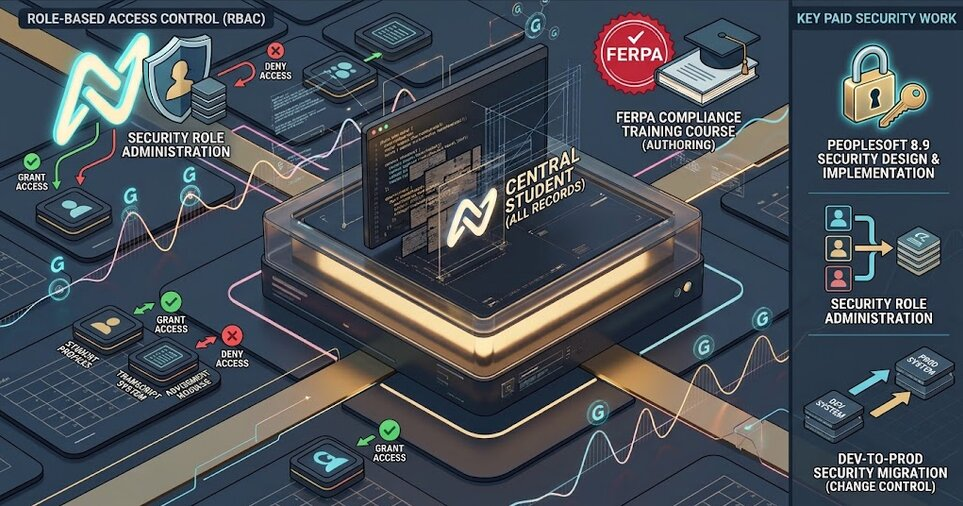
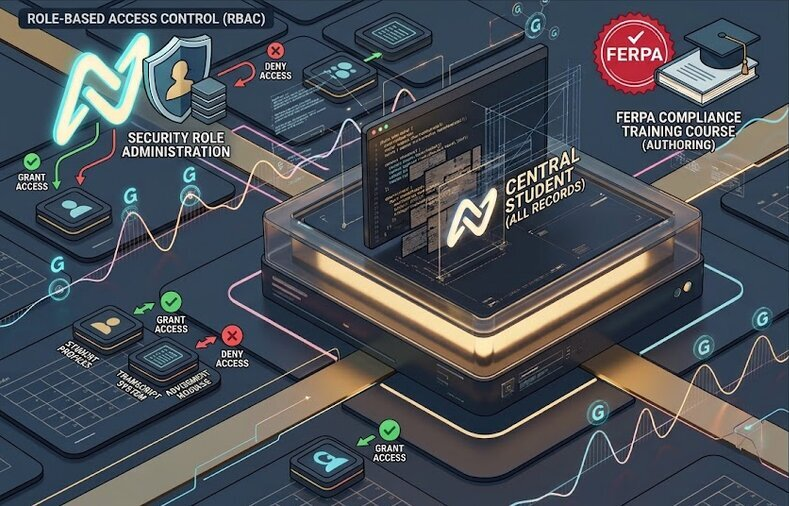
Reframe the CSUMB analyst entry as IAM/access-governance work
The card read as "PeopleSoft 8.9 specialist" -- a legacy-only signal.
Rewrote it around the transferable security methodology:

- "Built with" is now IAM / RBAC, access governance, least privilege,
  user lifecycle, dev/prod change control, FERPA -- no version number.
- "Shows" describes access-governance work on a system of record.
- Added a Read More with short evidence points: IAM/RBAC and least
  privilege, user lifecycle (provisioning/deprovisioning), access-
  certification audits, row-level security over PII, change control,
  Tier-3 escalation and root-cause analysis.
- One neutral "PeopleSoft ERP" mention kept for context/ATS; every
  "8.9" removed.
- Recropped the diagram to drop the right-hand panel, which had
  "PeopleSoft 8.9" baked into it (789x506, was 963x506).

Bumps js/index.js?v=13 -> v=14.

Claude-Session: https://claude.ai/code/session_01NLvoE8JGxNZnJwmoMEc5ck

diff --git a/js/index.js b/js/index.js
@@ -332,9 +332,10 @@ const securityData = [
   {
     title: "Student Information Systems Analyst - CSUMB",
     image: "./images/currentsites/sis-analyst-csumb.jpg",
-    stack: "PeopleSoft 8.9 · role-based access control · dev/prod change control · FERPA",
-    shows: "Paid security work: PeopleSoft 8.9 security design and implementation, security role administration, dev-to-production security migration, and authoring a FERPA compliance training course.",
-    description: "Staff analyst role at California State University, Monterey Bay -- owning the security side of the student information system that holds every student's records."
+    stack: "IAM / RBAC · access governance · least privilege · user lifecycle · dev/prod change control · FERPA",
+    shows: "Access-governance work on a system of record: role-based access control design, user provisioning and deprovisioning, access-certification audits, row-level security over student PII, and controlled dev-to-production release of security config.",
+    description: "Staff analyst role at California State University, Monterey Bay -- owning identity and access management for the PeopleSoft ERP that holds every student's records.",
+    readMore: "Identity & Access Management (IAM) and Role-Based Access Control (RBAC): mapped business roles to permission sets on the principle of least privilege, and ran the full user lifecycle -- provisioning, changes, and deprovisioning. Access governance & compliance: prepared the system for audits with access-certification matrix reports against FERPA and institutional policy. Data privacy: implemented row-level security so managers saw only their own records, protecting student PII. Change control: promoted security configuration from development to production through a controlled release process. Support: Tier-3 escalation point for complex access and permission anomalies, resolved from root cause."
   },
   {
     title: "Raspberry Pi / Kali Linux Pentest Lab",

diff --git a/index.html b/index.html
@@ -1330,6 +1330,6 @@ As a child, I was drawn to toys that sparked creativity and thought—paper-and-
 
   <script src="https://cdnjs.cloudflare.com/ajax/libs/jquery/3.1.0/jquery.min.js"></script>
   <script src="https://cdnjs.cloudflare.com/ajax/libs/twitter-bootstrap/3.3.7/js/bootstrap.min.js"></script>
-  <script src="js/index.js?v=13"></script>
+  <script src="js/index.js?v=14"></script>
   <script src="specialization/script.js"></script>
 </html>
